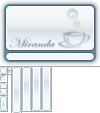
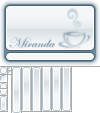
скининг

Changed region(s): [[0.51, 0.5841, 0.72, 1.0], [0.3, 0.5841, 0.42, 0.6372], [0.3, 0.9558, 0.42, 0.9823]]

diff --git a/Skins/IEView/styles/Glamour_Aqua_Light.css b/Skins/IEView/styles/Glamour_Aqua_Light.css
@@ -159,8 +159,8 @@ div.avatar {
 }
 
 .Status, .hStatus {
-	border-top: 1px solid #A47D73;
-	border-bottom: 1px solid #3C2D28;
+	border-top: 1px solid #FFFFFF;
+	border-bottom: 1px solid #AFC0CA;
 }
 
 /* -------------------- file transfer support -------------------- */
@@ -180,8 +180,8 @@ div.avatar {
 }
 
 .FileIn, .hFileIn, .FileOut, .hFileOut {
-	border-top: 1px solid #73A473;
-	border-bottom: 1px solid #273D27;
+	border-top: 1px solid #FFFFFF;
+	border-bottom: 1px solid #AFC0CA;
 }
 
 /* -------------------- URL support -------------------- */
@@ -201,6 +201,6 @@ div.avatar {
 }
 
 .URL, .hURL {
-	border-top: 1px solid #657AB1;
-	border-bottom: 1px solid #222B42;
+	border-top: 1px solid #FFFFFF;
+	border-bottom: 1px solid #AFC0CA;
 }
